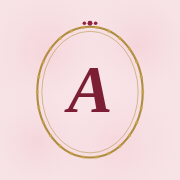
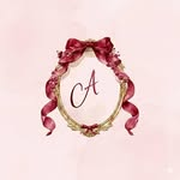
Use Mia's exact monogram everywhere
Replaces the stand-in seal with the original logo artwork, untouched:
logo-original-150.png is the pristine source file, and every placement
size (512px main, apple-touch, favicons) is a pure Lanczos resample of
it — no redrawing, no AI enhancement. The social-share card is rebuilt
around the real artwork.

Claude-Session: https://claude.ai/code/session_01WHnNLSy5EJHkoHwj7kkpFG

Changed region(s): [[0.1944, 0.1111, 0.8056, 0.8889]]

diff --git a/README.md b/README.md
@@ -29,11 +29,11 @@ images/3d/anim/              ← 32-frame 360° turntable loops (animated WebP),
 images/video/                ← real footage: muted, chromeless clips the menu cards
                                play on hover (desktop) or while in view (mobile),
                                plus their poster frames; reduced-motion gets stills
-images/brand/                ← the monogram in every size: logo.png (header, hero,
-                               footer, page-wipe), favicons, apple-touch icon.
-                               images/og.png is the social-share card built from it
-                               — overwrite logo.png and re-run the brand script to
-                               refresh the whole set
+images/brand/                ← Mia's monogram in every size: logo.png (header, hero,
+                               footer, page-wipe), favicons, apple-touch icon —
+                               all resampled from logo-original-150.png, the
+                               untouched original. images/og.png is the
+                               social-share card built around it
 js/motion.js                 ← GSAP/scroll animation layer (pure progressive enhancement)
 admin.html + js/admin.js     ← the editor the baker uses (commits via GitHub API)
 data/settings.json           ← shop name, WhatsApp number, closed days, cutoff, pickup slots
